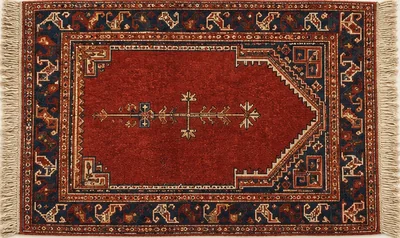
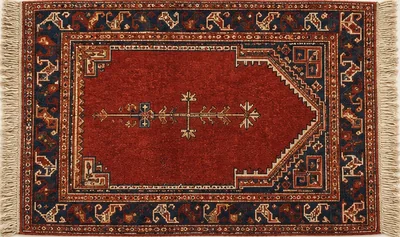
Rug thumbnails: drop a last pale hairline left along the long sides after scaling (Sinai Tent Band and eight others)
Claude-Session: https://claude.ai/code/session_01CT1BvnhzMeb2ZoPdnsTssv

diff --git a/tools/trim-rug-thumbs.py b/tools/trim-rug-thumbs.py
@@ -111,6 +111,19 @@ def tighten(im: Image.Image, box):
     return (x, y, x2, y2)
 
 
+def hairline(im):
+    """after scaling down, a last row of the long sides can still be mostly pale and flat (ground or the
+    carpet's soft shadow): drop up to 3 such rows top and bottom"""
+    d = np.asarray(im.convert('RGB')).astype(np.int32)
+    def flat(y):
+        r = d[y]
+        return ((r[:, 0] > 195) & (r[:, 1] > 185) & (r[:, 2] > 165)).mean() > 0.45 and r.std(axis=0).mean() < 14
+    t, b = 0, im.height
+    while t < 3 and flat(t): t += 1
+    while im.height - b < 3 and flat(b - 1): b -= 1
+    return im.crop((0, t, im.width, b)) if (t or b < im.height) else im
+
+
 def sheet(pairs, out: Path, label: str):
     cw, ch, cols = 220, 160, 6
     rows = (len(pairs) + cols - 1) // cols
@@ -150,6 +163,7 @@ def main():
             c = (im.convert('RGBA') if im.mode in ('RGBA', 'LA', 'P') else im.convert('RGB')).crop(box)
             k = min(1, 400 / max(c.size))
             out = c.resize((max(1, round(c.width * k)), max(1, round(c.height * k))), Image.LANCZOS)
+            out = hairline(out)
             out.save(thumb, 'WEBP', quality=84, method=6, alpha_quality=90)
         print(f'{full.stem:28s} {im.size} crop={box} -> {out.size}')
         after.append((full.stem, out))
